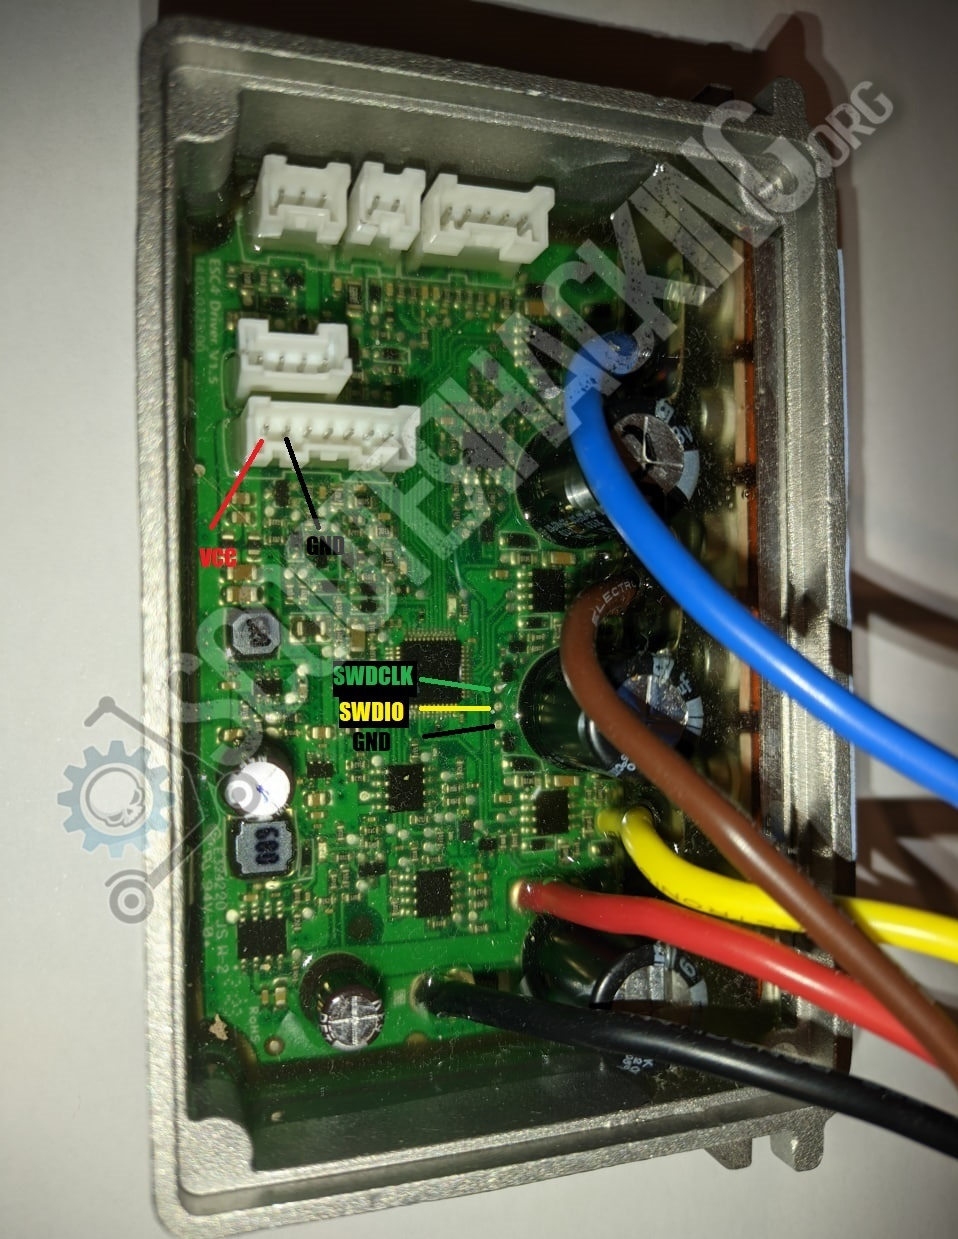
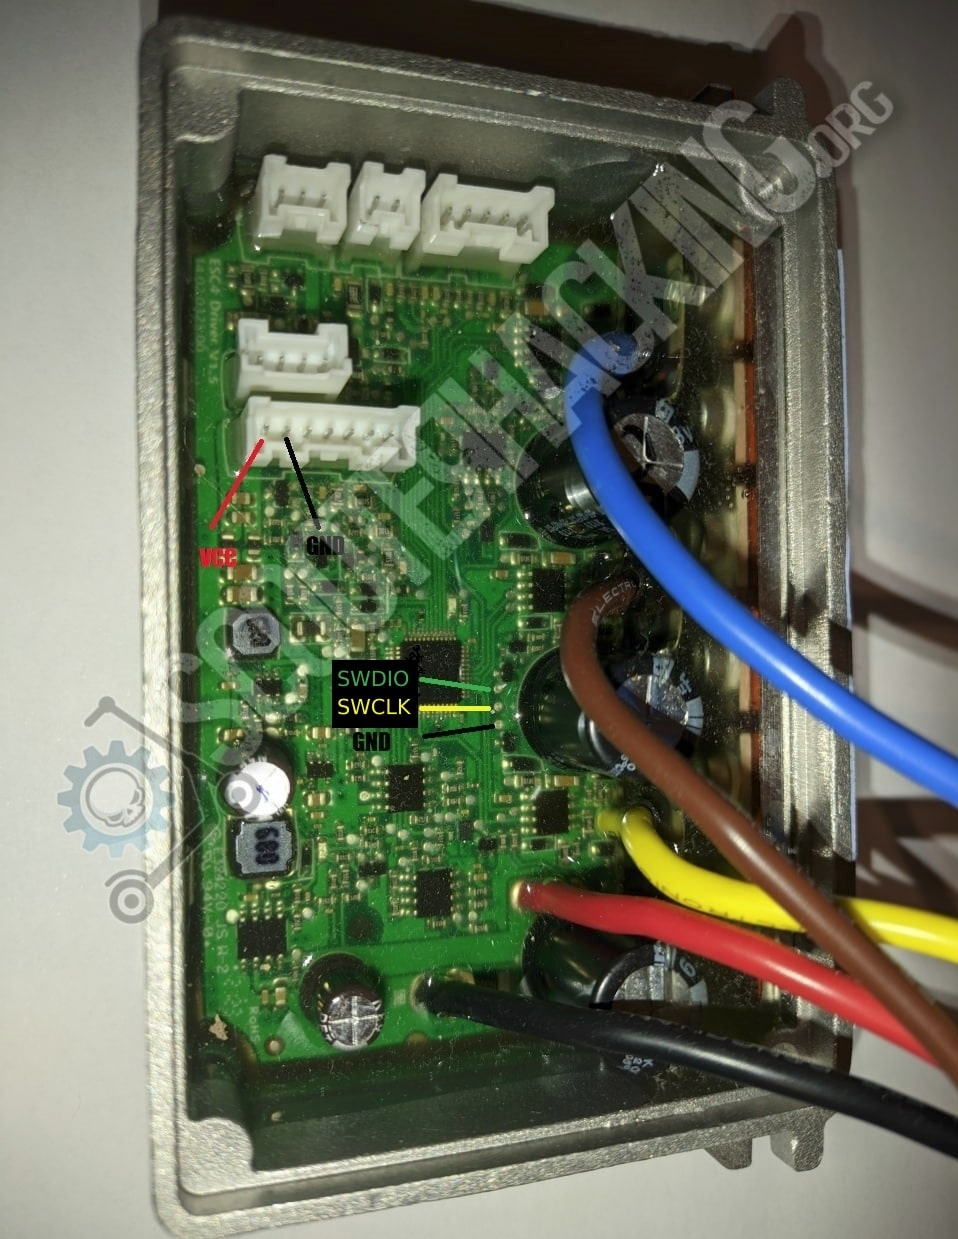
Fix G30 DRV Image

diff --git a/images.html b/images.html
@@ -74,7 +74,8 @@
             "1s": ["./images/LITE_1S_MI3_PRO2-DRV.png"],
             "mi3": ["./images/LITE_1S_MI3_PRO2-DRV.png"],
             "pro": ["./images/M365_PRO-DRV.png"],
-            "esx": ["./images/ESX_E-DRV.png"]
+            "esx": ["./images/ESX_E-DRV.png"],
+            "4pro": ["./images/4Pro-DRV.jpg", "./images/4Pro-DRV-back.jpg"]
           }
         }
 
